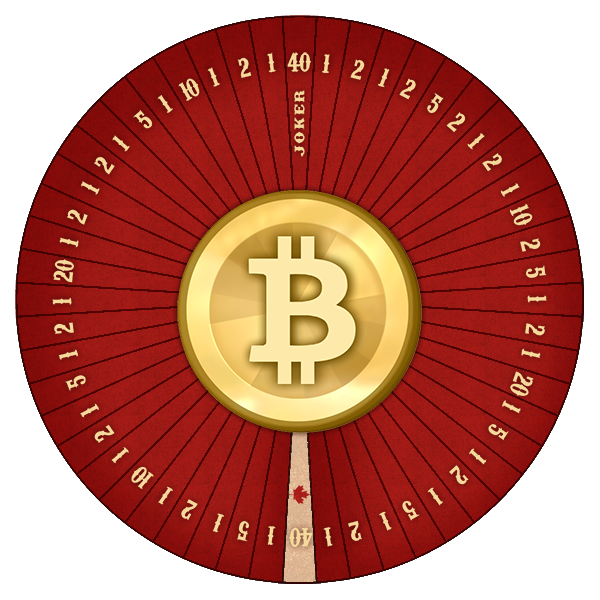
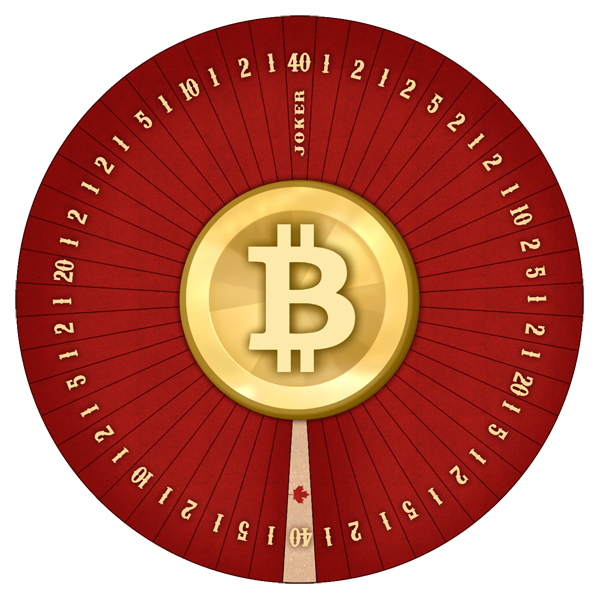
Front end work continues with some small server side alterations!!!!!

diff --git a/static/js/script.js b/static/js/script.js
@@ -32,6 +32,11 @@ var Loader = {
 	}
 }
 
+function message(t, v) {
+	if (console)
+		console.log(t + ": " + v);
+}
+
 $(function() {
 	// socket.io specific code
 	var socket = io.connect(null,{ rememberTransport: false });
@@ -42,36 +47,40 @@ $(function() {
 
 	socket.on('JoinRoom',function(msg){
 		Loader.hide();
-		
+
 		socket2 = io.connect(msg);
 		socket2.on('connect', function() {
-		 socket2.emit('join',{/*secret*/});
-		 message('System','Joined room: '+msg);
-		  socket2.on('spin',function(msg){
-		    message('System','Spin: '+msg.spin+', salt: '+msg.salt);
-		  });
-		  socket2.on('newHash',function(msg){
-		    message('System','Hash: '+ msg.hash);
-		 });
-		  socket2.on('timeLeft',function(msg){
-		   message('System','Time Left: '+msg);
-		 });
-		  socket2.on('DepositAddress',function(msg) {
-		   message('System','Deposit Address: ' +msg);
+			socket2.emit('join',{/*secret*/});
+				message('System','Joined room: '+msg);
+				socket2.on('spin',function(msg){
+					Wheel.spinToSlice(msg.spin);
+					$("#spinToHash").html(msg.spin + msg.salt);
+					message('System','Spin: ' + msg.spin + ', salt: ' + msg.salt);
+				});
+				socket2.on('newHash',function(msg){
+					$("#spinHash").html(msg.hash);
+					message('System','Hash: '+ msg.hash);
+				});
+				socket2.on('timeLeft',function(msg){
+					$("#timeLeft").html(msg);
+					message('System','Time Left: '+msg);
+				});
+				socket2.on('DepositAddress',function(msg) {
+					message('System','Deposit Address: ' + msg);
+				});
+				socket2.on('Balance',function(msg) {
+					message('System','Balance: '+msg);
+				});
+				socket2.on('Secret',function(msg){
+					message('System','Secret: '+msg);
+				});
+				setInterval(function() { 
+					socket2.emit('timeLeft');
+				}, 1000);
+			})
 		});
-		  socket2.on('Balance',function(msg) {
-		   message('System','Balance: '+msg);
-		 });
-		  socket2.on('Secret',function(msg){
-		   message('System','Secret: '+msg);
-		 });
-		 setInterval(function() { 
-		    socket2.emit('timeLeft');
-		   },1000);
-		 })
-	});
 
-	socket.on('error', function (e) {
-	  message('System', e ? e : 'A unknown error occurred');
-	});
+		socket.on('error', function (e) {
+			message('System', e ? e : 'A unknown error occurred');
+		});
 });

diff --git a/static/css/style.css b/static/css/style.css
@@ -193,10 +193,16 @@ button {  width: auto; overflow: visible; }
 * html .clearfix { height: 1%; } /* Hides from IE-mac \*/
 .clearfix { display: block; }
 
+.right {
+	float: right;
+}
+.left {
+	float: left;
+}
+
  /* Primary Styles */
 body {
-	font-family: Arial;
-	
+	font-family: 'Ubuntu';
 }
 header {
 	font-family: 'Ubuntu', "Arial";
@@ -205,8 +211,7 @@ header {
 	font-size: 75px;
 	padding: 0 20px;
 	color: #4d4d4d;
-	letter-spacing: -2px;
-	border-bottom: 2px #c1c1c1 solid;
+	letter-spacing: -3px;
 
 	text-shadow: 1px 1px 1px rgba(255, 255, 255, 1);
 	background: #fefefe;
@@ -215,9 +220,22 @@ header {
 	background: -webkit-linear-gradient(top, #fefefe 0%,#dddedf 100%);
 	background: -o-linear-gradient(top, #fefefe 0%,#dddedf 100%);
 	background: -ms-linear-gradient(top, #fefefe 0%,#dddedf 100%);
-	filter: progid:DXImageTransform.Microsoft.gradient( startColorstr='#fefefe', endColorstr='#dddedf',GradientType=0 );
+	filter: progid:DXImageTransform.Microsoft.gradient(startColorstr='#fefefe', endColorstr='#dddedf',GradientType=0 );
 	background: linear-gradient(top, #fefefe 0%,#dddedf 100%);
 }
+#informationBar {
+	background: #4D4D4D;
+	padding: 5px 33px;
+	color: #FFF;
+	font-size: 13px;
+}
+	#informationBar ul {
+		margin: 0;
+	}
+		#informationBar ul li {
+			display: inline-block;
+			margin-right: 5px;
+		}
 .overlay {
 	position: absolute;
 	top: 0;
@@ -240,18 +258,31 @@ header {
 	}
 	.overlay > div > div {
 		font-size: 70px;
-		bottom: 35px;
+		bottom: 45px;
 		position: relative;
 	}
 #overlay-loading {
 	display: block;
 }
-#wheel {
-	-webkit-transition: all 10000ms ease-out;
-	-moz-transition: all 10000ms ease-out;
-	-o-transition: all 10000ms ease-out;
-	transition: all 10000ms ease-out;
+#main {
+	padding: 5px;
 }
+#wheelWrapper {
+	width: 600px;
+	text-align: center;
+	position: relative;
+}
+	#wheelWrapper #wheelArrow {
+		margin-bottom: -38px;
+		position: relative;
+		z-index: 1;
+	}
+	#wheelWrapper #wheel {
+		-webkit-transition: all 10000ms ease-out;
+		-moz-transition: all 10000ms ease-out;
+		-o-transition: all 10000ms ease-out;
+		transition: all 10000ms ease-out;
+	}
 
 
 /* 

diff --git a/lib/bigsix.js b/lib/bigsix.js
@@ -34,8 +34,8 @@ Class('BigSixWheel',{
 			return this.getSpun(); 	
 		},
 		spinHash: function(spin) {
-			var salt = this.salt();
-			return [Hash.sha512(spin+salt),salt];
+			var salt = "_" + this.salt();
+			return [Hash.sha256(spin+"_"+salt),salt];
 		},
 		maxBet: function(callback) {
 			this.getClient().getBalance("",function(err,bal) {
